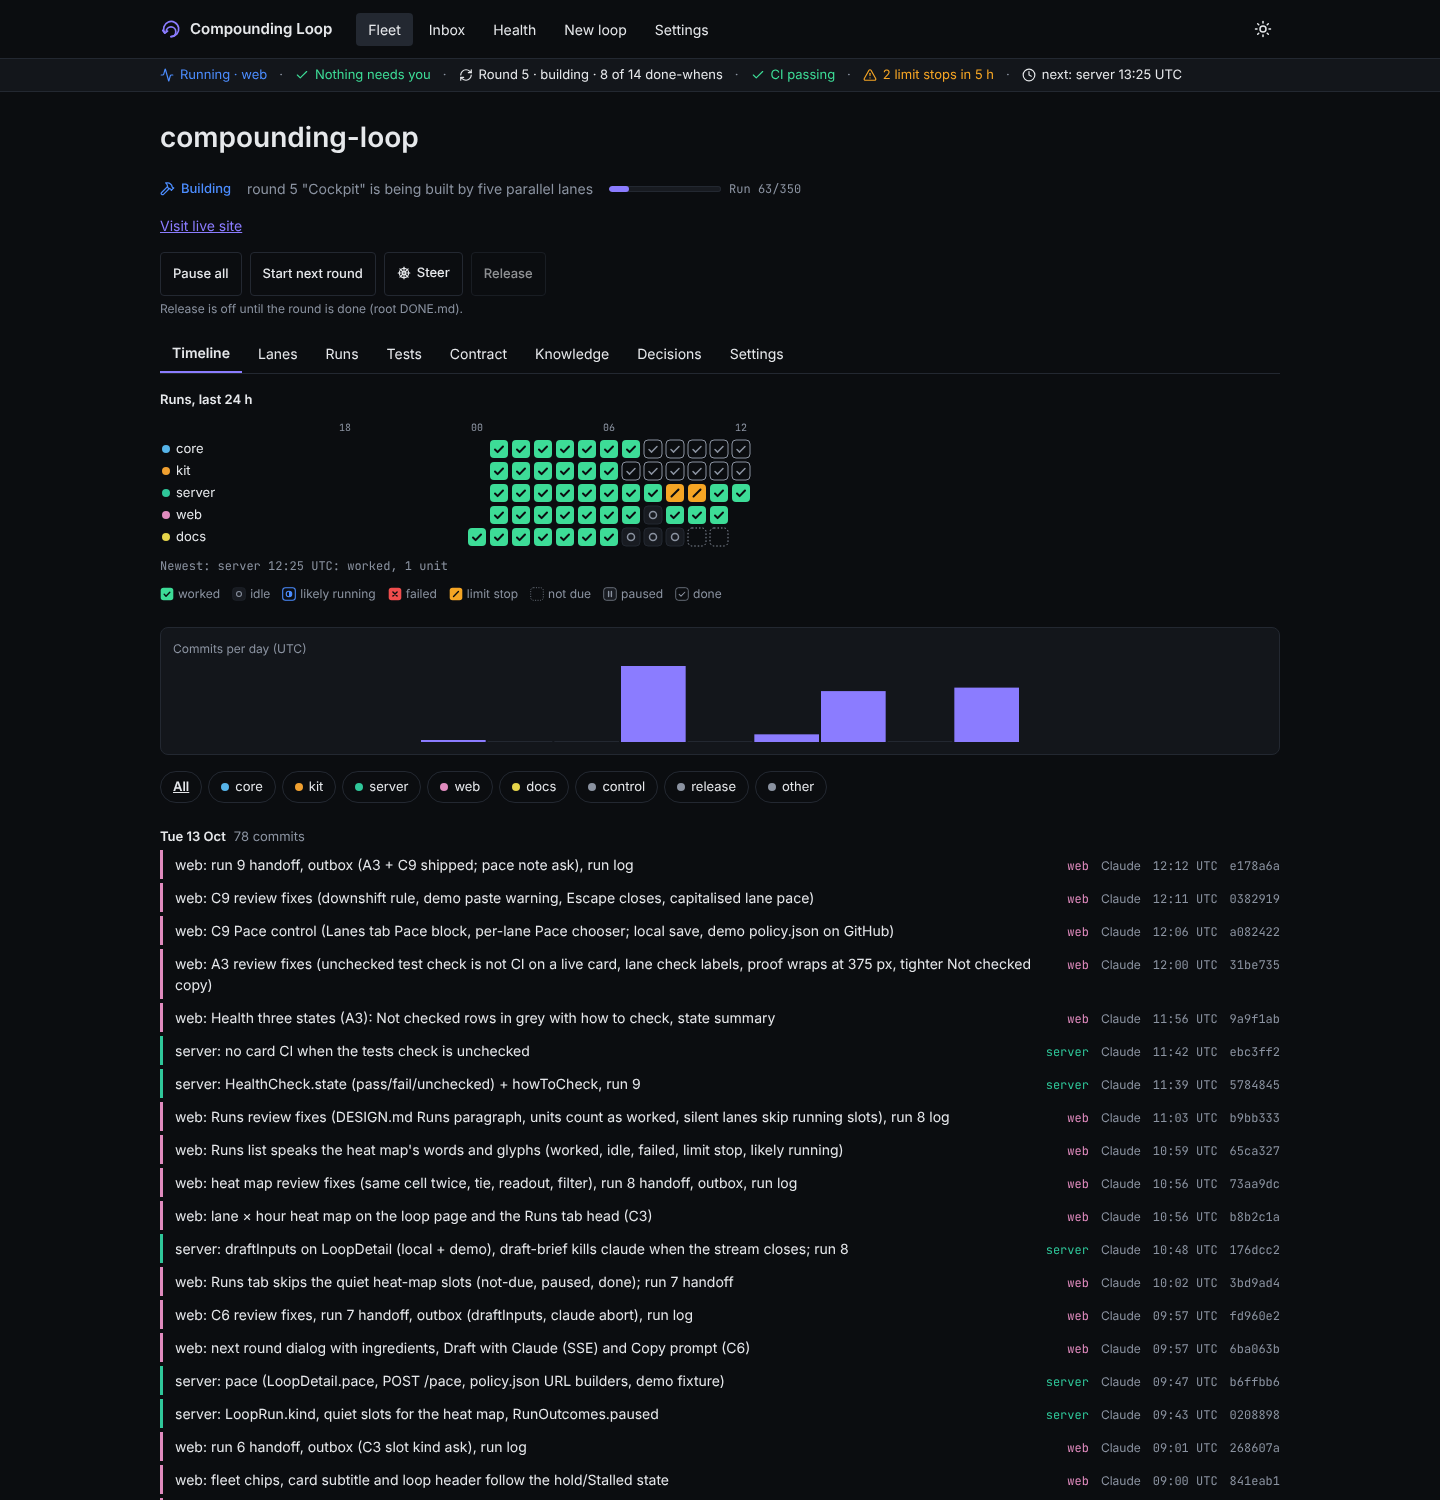
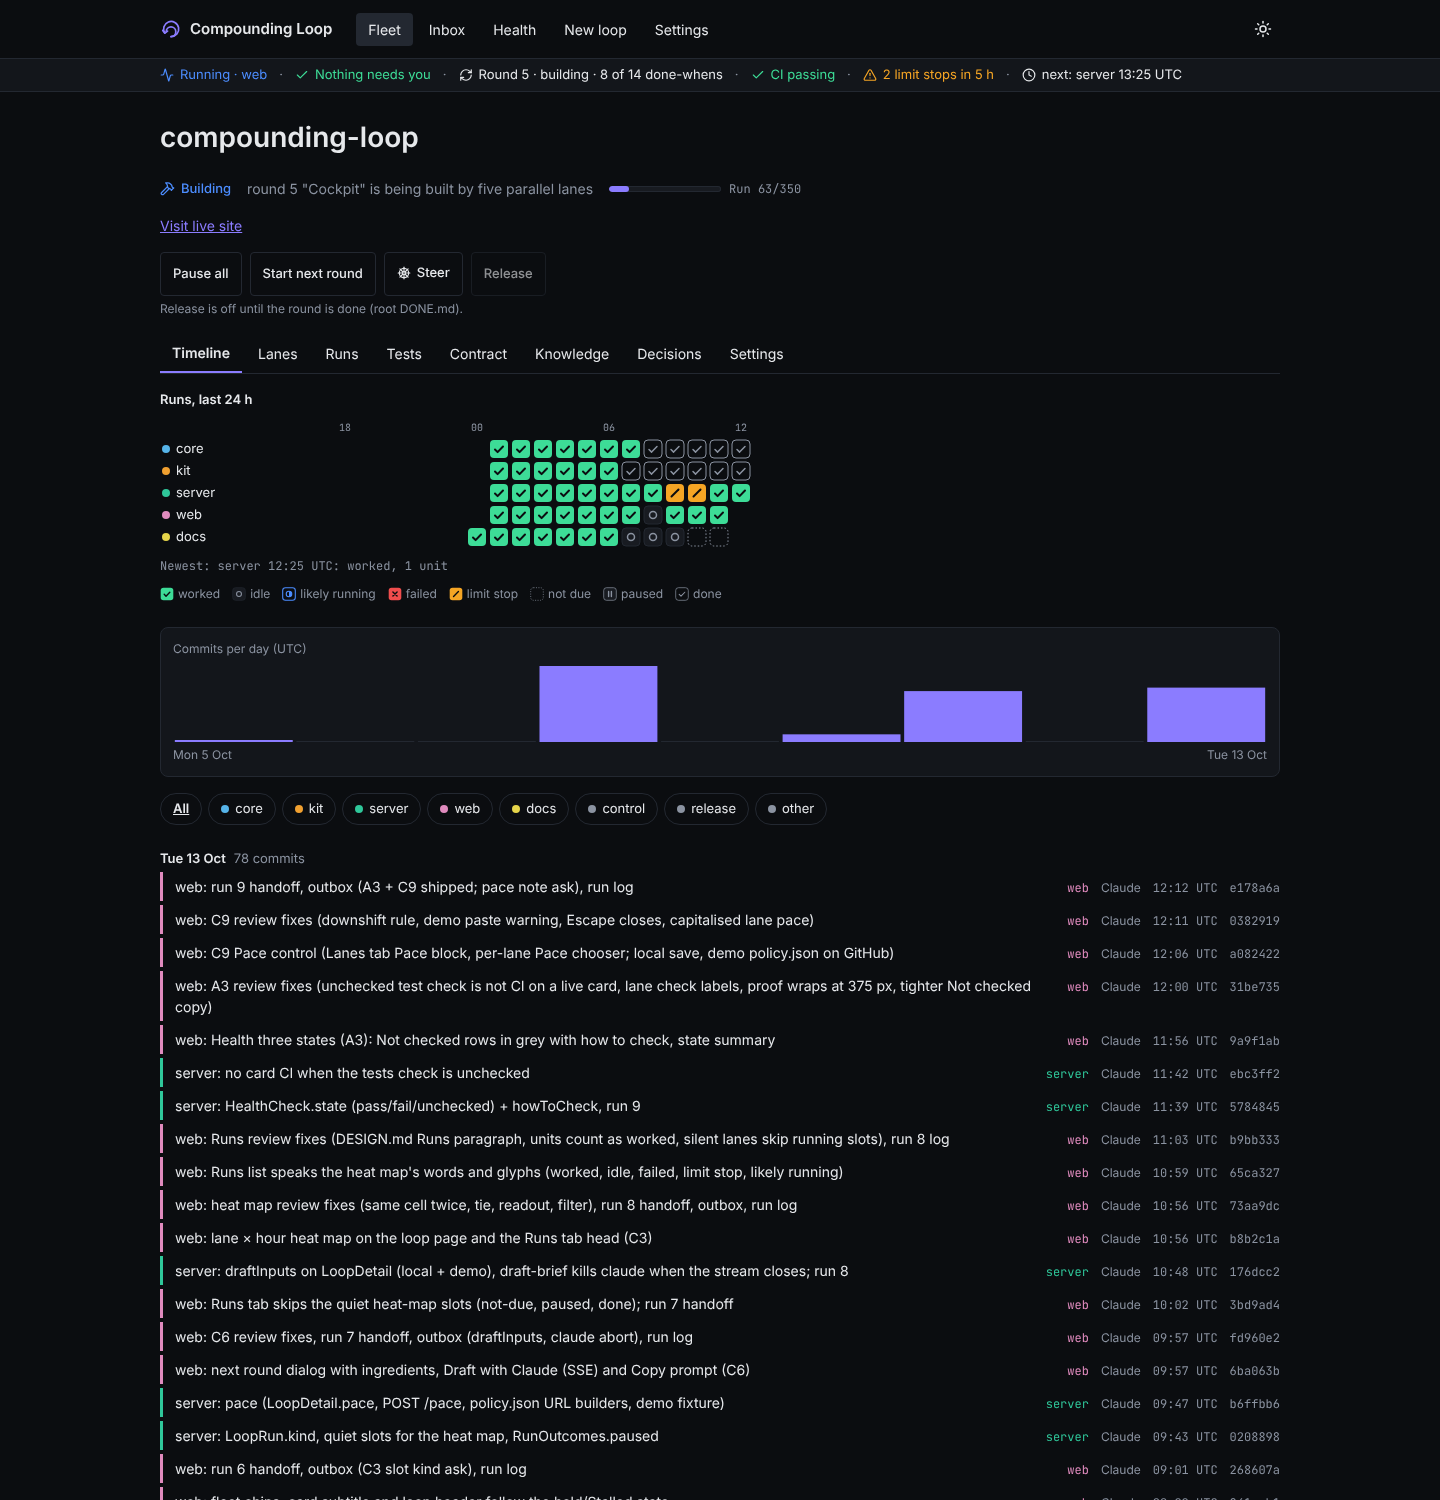
web: commits-per-day chart labels its first and last day and spans the chart width
Lane: web

Claude-Session: https://claude.ai/code/session_0135eEZbXzaftKM6SoTFzsNQ

diff --git a/tests/e2e/activity.spec.ts b/tests/e2e/activity.spec.ts
@@ -1,0 +1,25 @@
+import { expect, test } from '@playwright/test';
+
+// Commits per day on the Timeline tab: the first and last day are labelled, and the bars run edge to edge so the labels sit under them.
+const commit = (sha: string, at: string) => ({ sha, at, message: `web: change ${sha}`, lane: 'web' });
+const LOOP = {
+  id: 'self', name: 'self', state: 'building', reason: 'Building', round: 5, roundsTotal: 5, run: 0, runLimit: 0,
+  timeline: [commit('c3', '2026-10-13T10:00:00Z'), commit('c2', '2026-10-13T09:00:00Z'), commit('c1', '2026-10-11T08:00:00Z')],
+  contract: [], knowledge: [], decisions: [],
+};
+
+test('commits per day names its first and last day under bars that span the chart', async ({ page }) => {
+  await page.route('**/api/health', (r) => r.fulfill({ status: 404, contentType: 'application/json', body: '{}' }));
+  await page.route('**/live.json', (r) => r.fulfill({ status: 404, contentType: 'application/json', body: '{}' }));
+  await page.route('**/api/loops.json', (r) => r.fulfill({ json: [LOOP] }));
+  await page.route('**/api/loops/self.json', (r) => r.fulfill({ json: LOOP }));
+  await page.route('**/api/inbox.json', (r) => r.fulfill({ json: [] }));
+  await page.goto('/#/loop/self');
+  const chart = page.getByTestId('activity-chart');
+  await expect(chart.getByTestId('activity-axis').locator('span')).toHaveText(['Sun 11 Oct', 'Tue 13 Oct']);
+  const figure = await chart.boundingBox();
+  const bars = await chart.locator('rect').evaluateAll((rects) => rects.map((r) => r.getBoundingClientRect()).map((b) => ({ left: b.left, right: b.right })));
+  // 12 px padding on each side of the figure; the outer bars reach within a few pixels of it.
+  expect(bars[0]!.left - figure!.x).toBeLessThan(20);
+  expect(figure!.x + figure!.width - bars[bars.length - 1]!.right).toBeLessThan(20);
+});

diff --git a/web/src/components/ActivityChart.tsx b/web/src/components/ActivityChart.tsx
@@ -15,7 +15,8 @@ export function ActivityChart({ commits }: { commits: LoopCommit[] }) {
   return (
     <figure data-testid="activity-chart" className="rounded-lg border p-3" style={{ background: 'var(--surface)', borderColor: 'var(--border)' }}>
       <figcaption className="mb-1 text-[12px]" style={{ color: 'var(--muted)' }}>Commits per day (UTC)</figcaption>
-      <svg role="img" aria-hidden="false" aria-label={label} viewBox={`0 0 ${W} ${H}`} className="h-20 w-full">
+      {/* Stretched, not letterboxed: the day labels below sit at the figure's edges, so the bars must reach them. */}
+      <svg role="img" aria-hidden="false" aria-label={label} viewBox={`0 0 ${W} ${H}`} preserveAspectRatio="none" className="block h-20 w-full">
         {days.map((d, i) => {
           const h = d.count === 0 ? 1 : Math.max(2, (d.count / max) * (H - 4));
           return (
@@ -25,6 +26,10 @@ export function ActivityChart({ commits }: { commits: LoopCommit[] }) {
           );
         })}
       </svg>
+      <div aria-hidden="true" data-testid="activity-axis" className="mt-1 flex justify-between text-[12px]" style={{ color: 'var(--muted)' }}>
+        <span>{dayHeading(days[0]!.day)}</span>
+        <span>{dayHeading(days[days.length - 1]!.day)}</span>
+      </div>
       <table className="sr-only">
         <caption>Commits per day (UTC)</caption>
         <thead><tr><th scope="col">Day</th><th scope="col">Commits</th></tr></thead>
